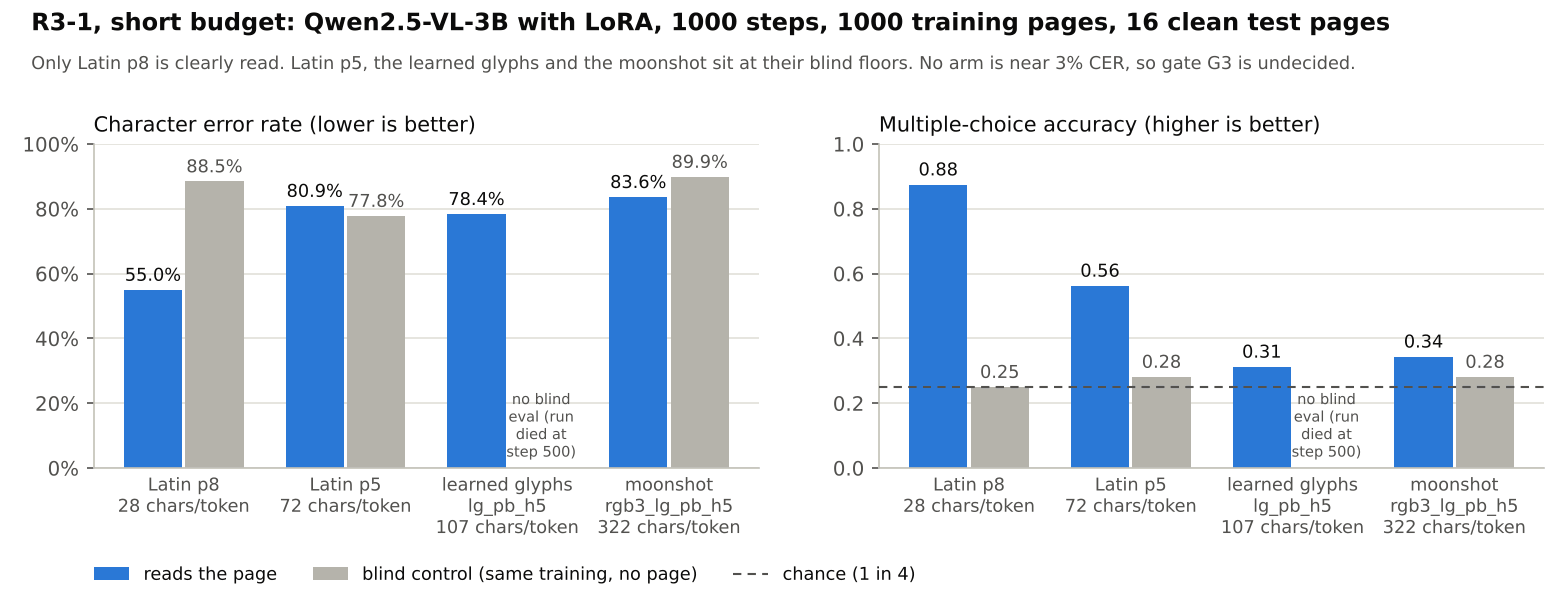
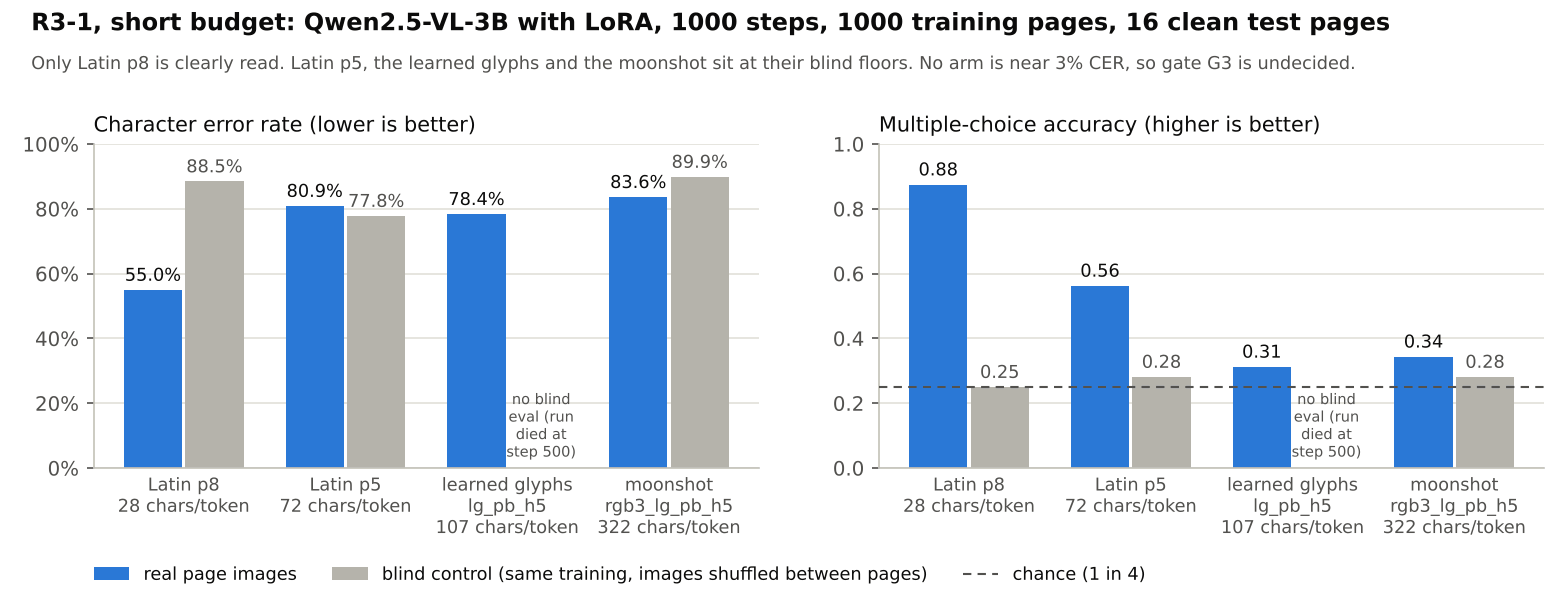
README: status box (2026-11-05), codes, results by stage, run and repo map; two charts
New charts from the result rows (scripts/make_readme_figures.py, --only charts):
docs/img/readme_density.png (chars per vision token vs read/partly/not read per encoder
and stage) and docs/img/readme_r3_1.png (R3-1 short budget: CER and MC per arm vs its
blind control). Demo figures unchanged (torch/bank imports now lazy).

Claude-Session: https://claude.ai/code/session_01WVzSJ934fYhDkwG8gwoyMQ

Changed region(s): [[0.0923, 0.93, 0.5846, 0.99], [0.6462, 0.93, 0.7385, 0.96]]

diff --git a/scripts/make_readme_figures.py b/scripts/make_readme_figures.py
@@ -600,8 +600,8 @@ def chart_r3_1():
                                      (axes[1], "mc_acc", "Multiple-choice accuracy (higher is better)", "{:.2f}", 1.0)):
         rv = [real[a][key] for a in arms]
         bv = [blind[a][key] if a in blind else np.nan for a in arms]
-        ax.bar(x - w / 2 - 0.01, rv, w, color=FAMILY["latin"][1], label="reads the page", zorder=2)
-        ax.bar(x + w / 2 + 0.01, bv, w, color=BLIND_C, label="blind control (same training, no page)", zorder=2)
+        ax.bar(x - w / 2 - 0.01, rv, w, color=FAMILY["latin"][1], label="real page images", zorder=2)
+        ax.bar(x + w / 2 + 0.01, bv, w, color=BLIND_C, label="blind control (same training, images shuffled between pages)", zorder=2)
         for i, (a, b) in enumerate(zip(rv, bv)):
             ax.text(x[i] - w / 2 - 0.01, a + 0.015, fmt.format(a), ha="center", va="bottom", fontsize=8.5,
                     color=INK_1)

diff --git a/README.md b/README.md
@@ -14,7 +14,7 @@ RGB overlays and learned glyph alphabets) and compares them with plain text rend
 > | **Settled** | **Hand-picked chunk glyphs (Phases 1-2): KILL.** With Claude, PP-OCR and trained CRNN readers, plain Latin wins. |
 > | | **Learned glyph alphabet, pixel space: qualified GO.** With a trained reader it needs about 0.57x Latin's px²/char at 3% CER. |
 > | | **Frozen VLM encoders (SigLIP, DeepSeek-OCR's DeepEncoder): every dense code is lost.** Only low-density Latin (8.5 chars/token) reads through DeepEncoder. |
-> | | **Qwen2.5-VL-3B, raw pixels and frozen:** the moonshot code (322 chars/token) reads from raw pixels at 1.07% CER, but collapses at the ViT's 2x2 merger. A CPU probe's verdict: "the ViT output is the wall at this budget". |
+> | | **Qwen2.5-VL-3B, raw pixels and frozen:** the moonshot code (322 chars/token) reads from raw pixels at 1.07% CER, but its pixel detail collapses (linearly) at the ViT's 2x2 merger. A CPU probe's verdict: "the ViT output is the wall at this budget". |
 > | **Open** | **R3-1, LoRA fine-tune of Qwen's LLM (1000 steps):** Latin at 28 chars/token is read (55% CER vs 88.5% blind). Latin at 72 chars/token, learned glyphs (107) and the moonshot (322) sit at their blind floors. Gate G3 is undecidable: no arm is near 3% CER. |
 > | **Next** | Latin p8/p6/p5 at 5000 steps, each with a blind control. A vision-side diagnostic for the glyph codes before any long run. R3-2 (long-context QA at equal KV cache) only if G3 passes. |
 
@@ -22,8 +22,8 @@ RGB overlays and learned glyph alphabets) and compares them with plain text rend
 * **CER:** character error rate (edit distance / reference characters).
 * **px²/char:** image area per source character (lower is denser).
 * **Chars per vision token:** characters carried by one image token of a given encoder (higher is denser).
-* **Blind control:** the same fine-tune with the page image hidden. Its scores are the floor that the model's
-  language prior reaches on its own.
+* **Blind control:** the same fine-tune with the images shuffled between pages, so the image says nothing about
+  the answer. Its scores are the floor that the model's language prior reaches on its own.
 
 ## The codes
 
